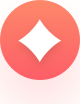
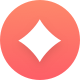
调整我的页面图标失真问题

diff --git a/src/pages/mine/index.vue b/src/pages/mine/index.vue
@@ -18,7 +18,7 @@
                 </div>
             </div>
             <div class="flex-left-center bottom">
-                <div class="flex-center"><img src="../../../static/images/all/grade.png" />等级: Lv{{userInfo.level}}</div>
+                <div class="flex-center"><img class="img1" src="../../../static/images/all/grade.png" />等级: Lv{{userInfo.level}}</div>
                 <div class="flex-center"><img src="../../../static/images/all/integral.png" />积分: {{userInfo.integral}}</div>
             </div>
         </div>
@@ -77,9 +77,11 @@ export default {
       width: 375rpx;
       height: 50rpx;
     }
-
+    .img1 {
+      height: 35rpx !important;
+    }
     img {
-      height: 50rpx;
+      height: 40rpx;
       width: 40rpx;
       margin-right: 15rpx;
     }

diff --git a/src/components/next-list/next-list.vue b/src/components/next-list/next-list.vue
@@ -9,7 +9,7 @@
   <div class="list-comp">
     <div class="flex-both" v-for="item of data" :key="item.name">
       <div class="flex-left-center">
-        <img :src="onlineUrl + item.name + '.png'" />
+        <img :class="item.name" :src="onlineUrl + item.name + '.png'" />
         <span>{{item.label}}</span>
       </div>
       <i class="icon icon-more" />
@@ -48,6 +48,14 @@ export default {
     height: 40rpx;
     width: 40rpx;
     margin-right: 30rpx;
+  }
+  .my_badge {
+    height: 45rpx;
+    width: 38rpx;
+  }
+  .my_collection, .my_participated {
+    height: 34rpx;
+    width: 38rpx;
   }
 }
 </style>
